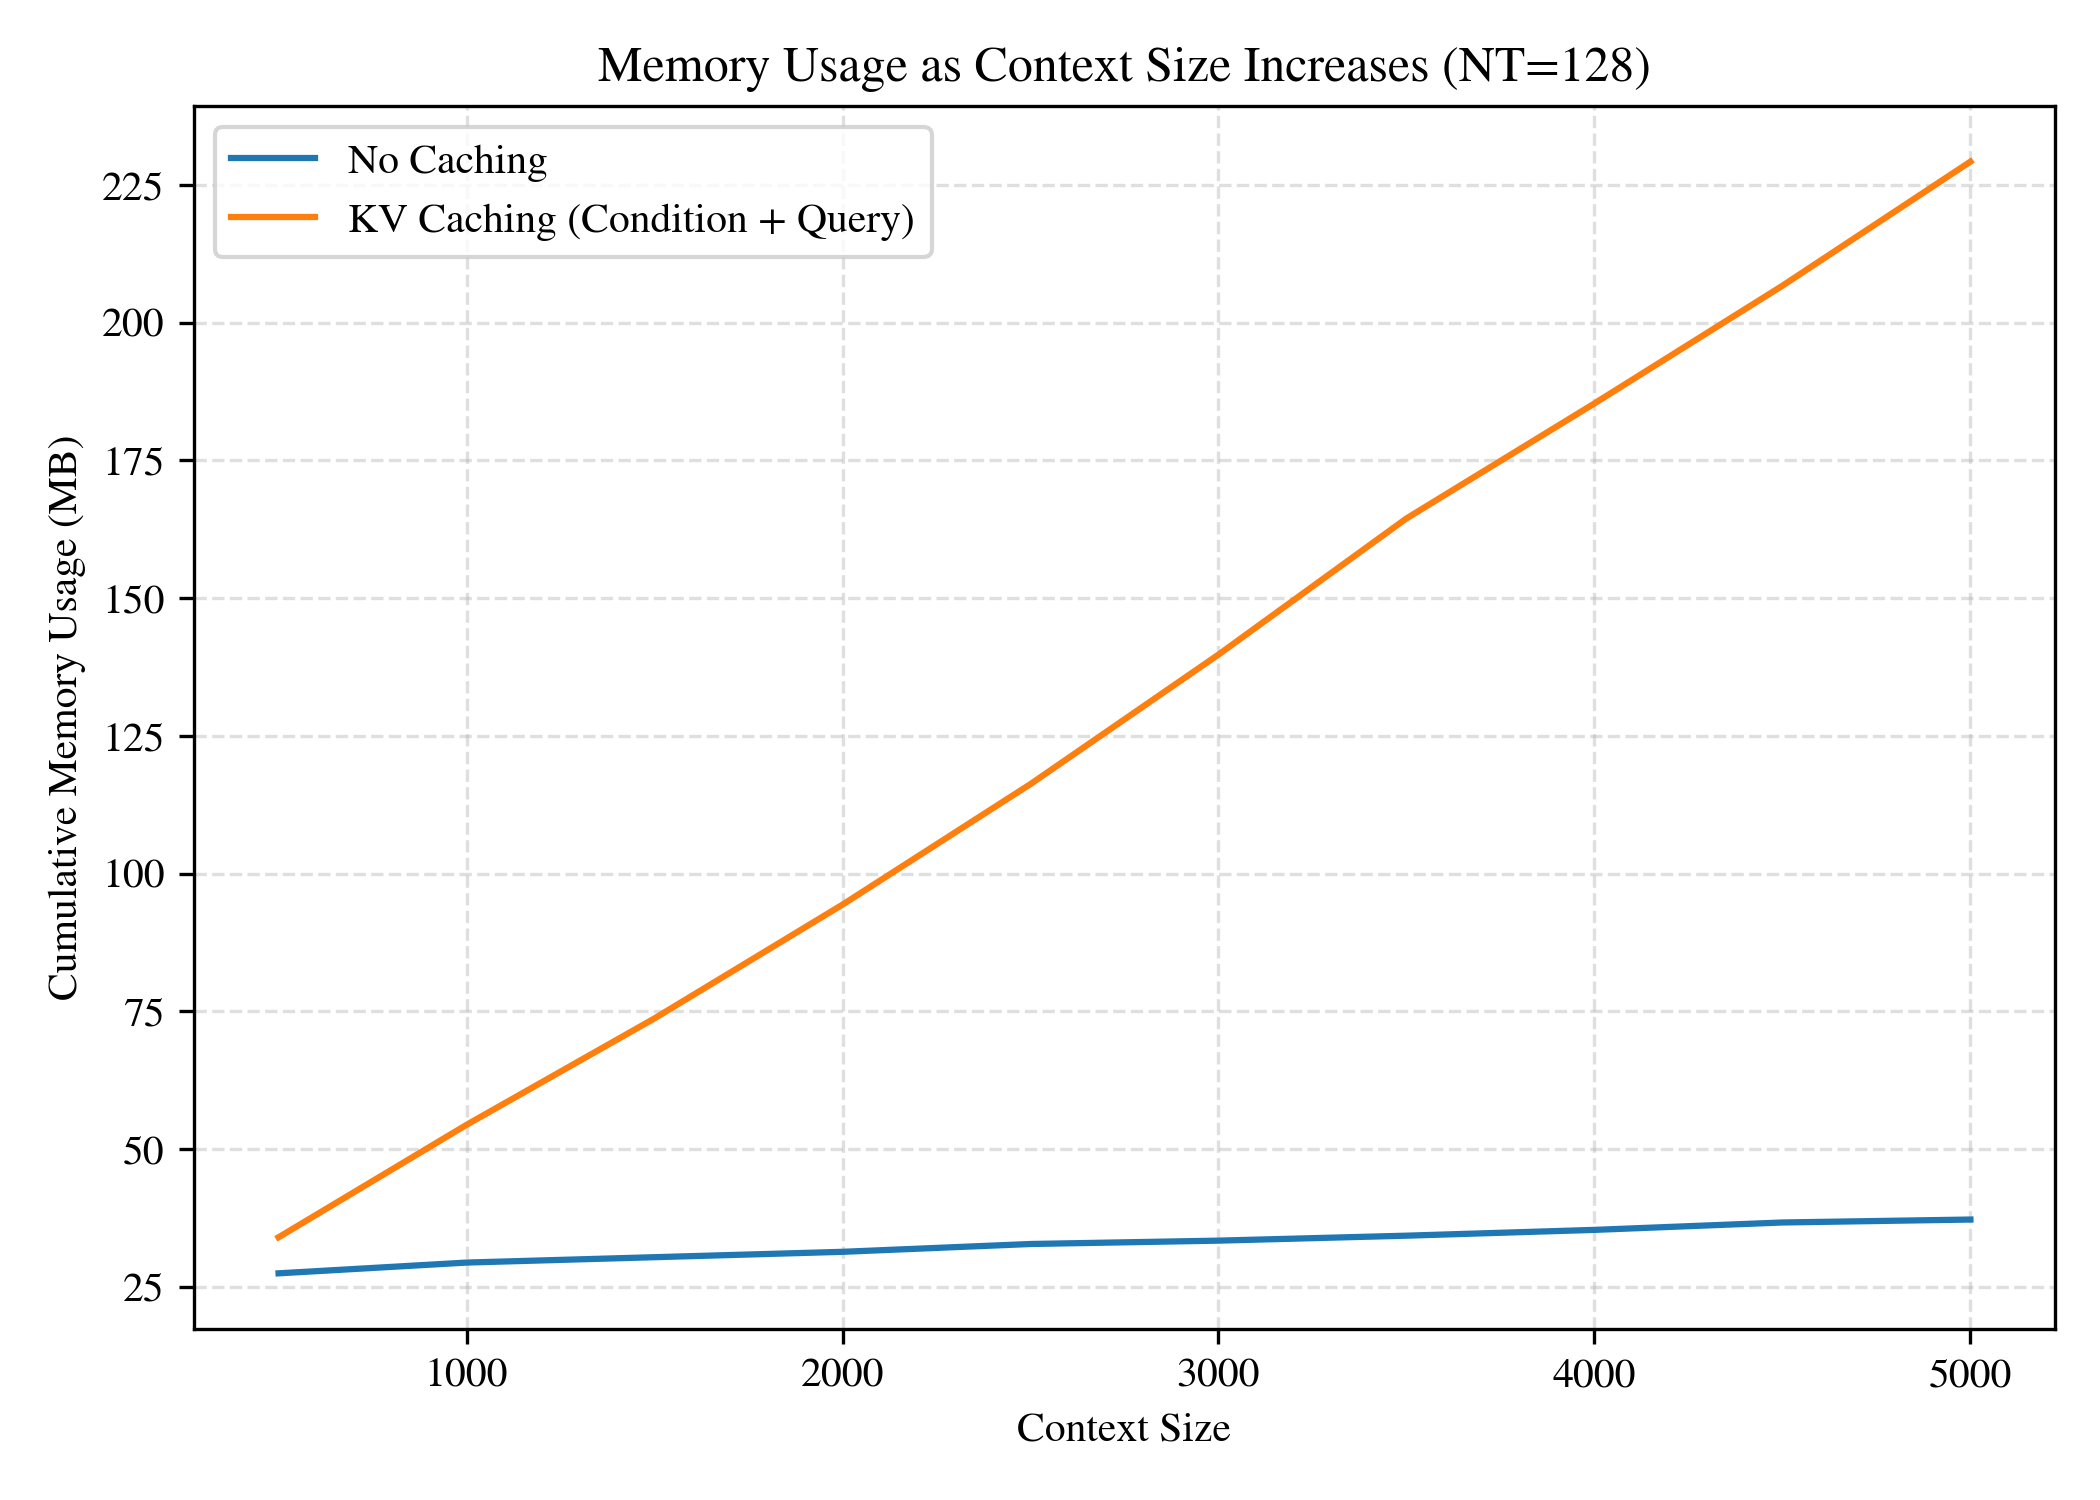
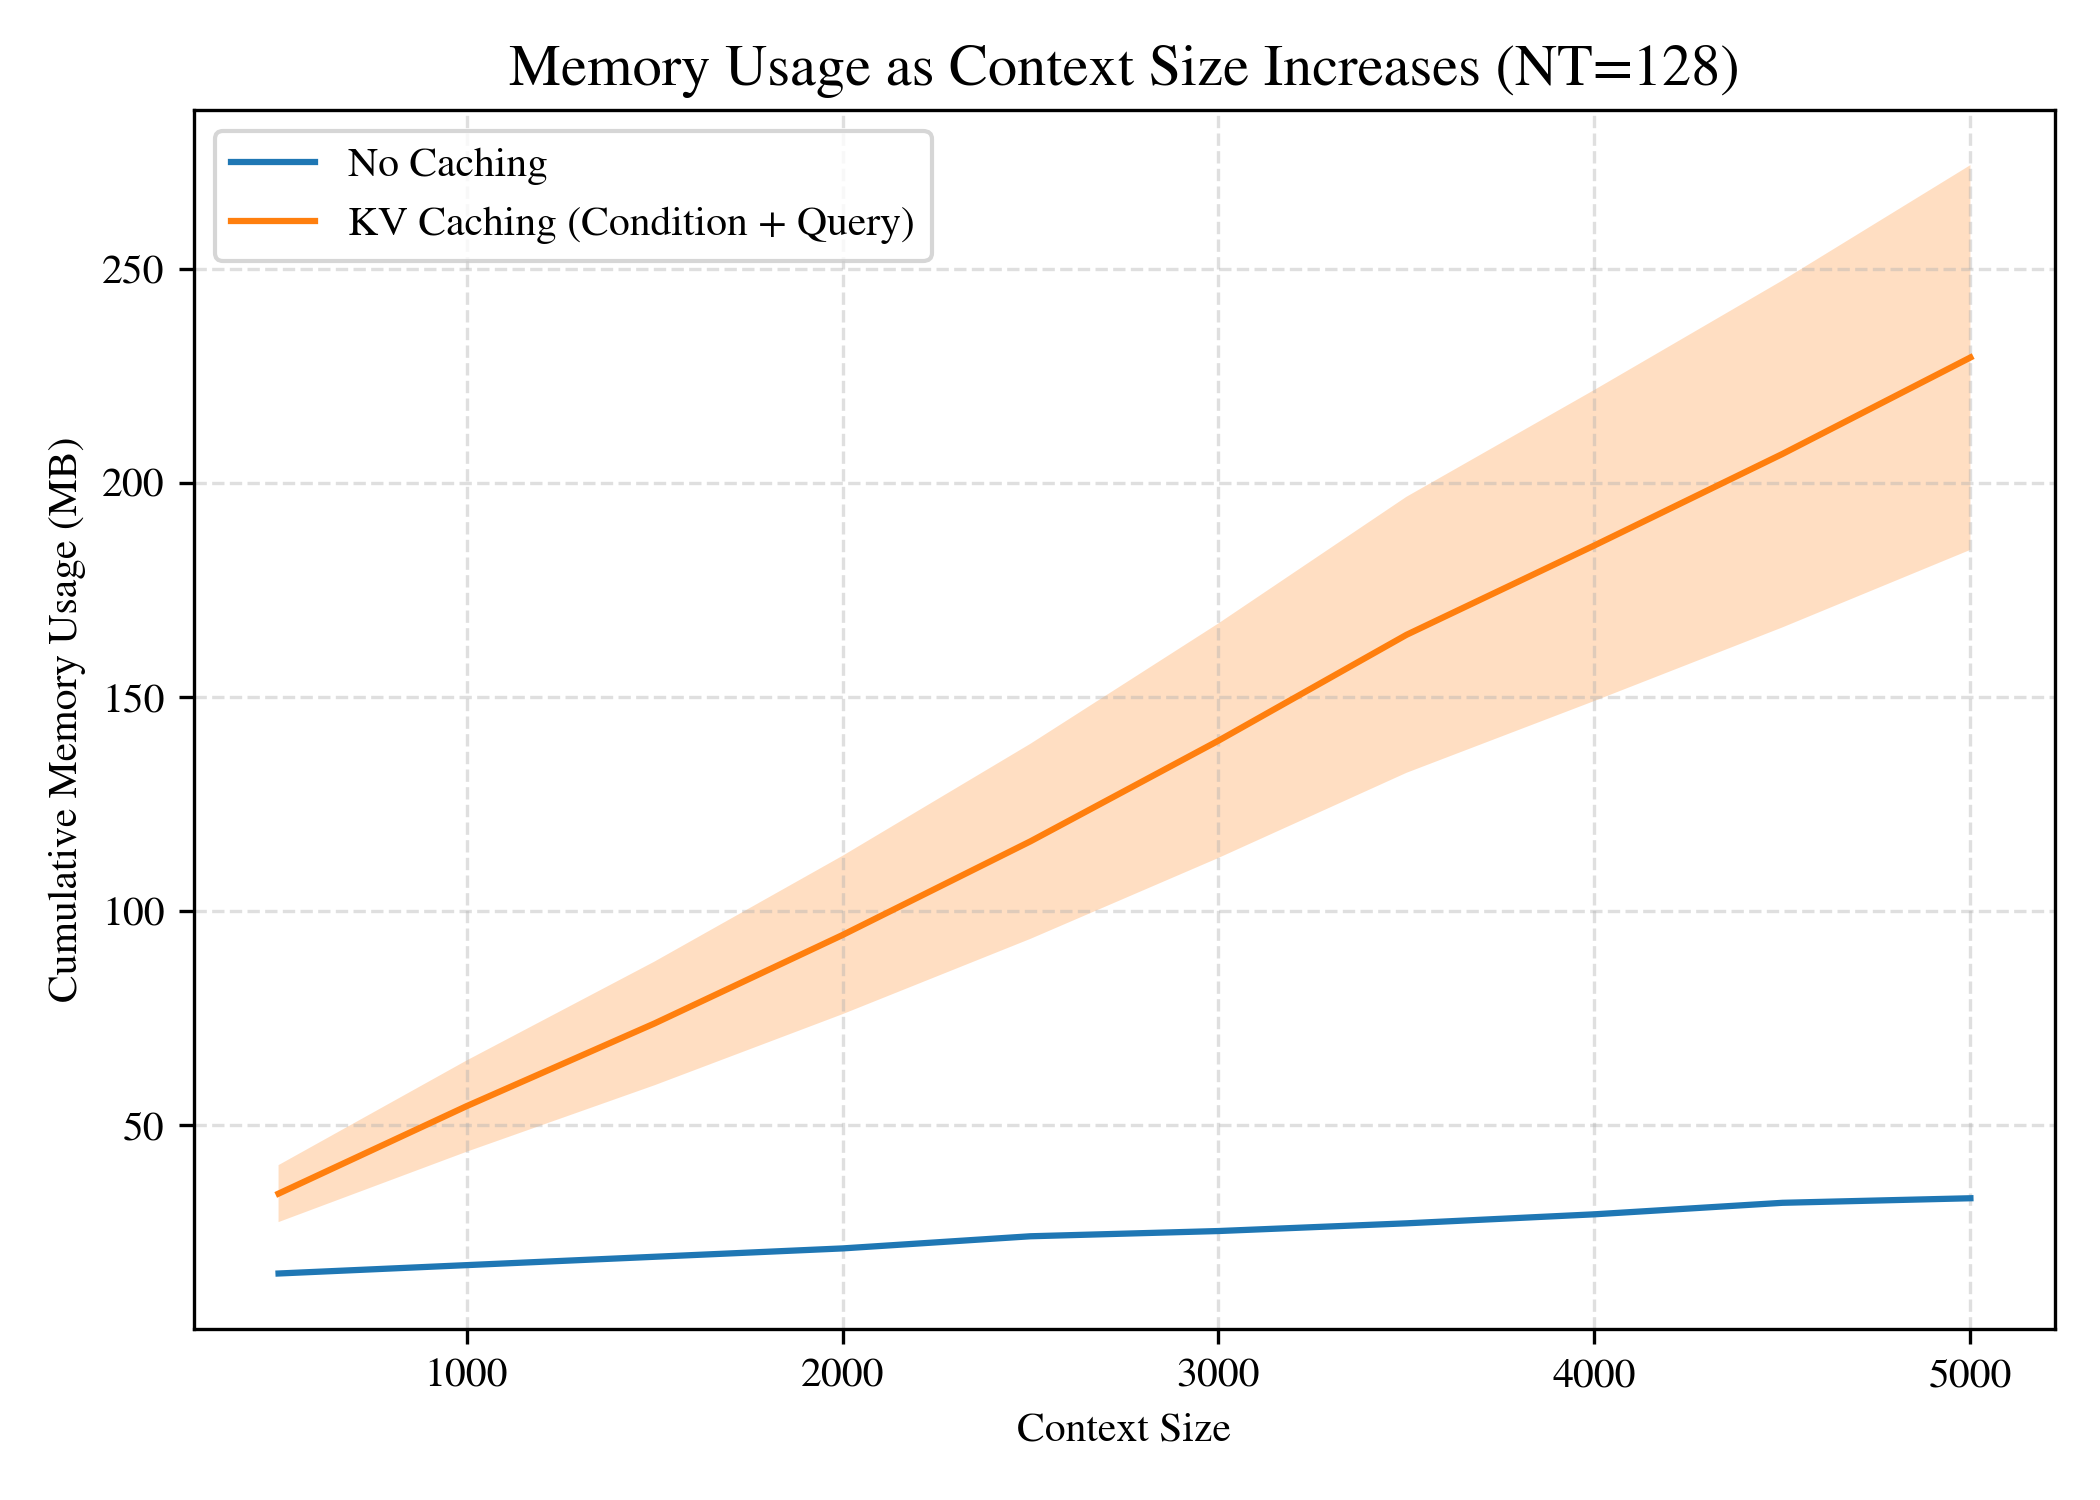
Plots

diff --git a/experiments/kv_cache_plots.py b/experiments/kv_cache_plots.py
@@ -10,6 +10,7 @@ import matplotlib
 
 matplotlib.rcParams["mathtext.fontset"] = "stix"
 matplotlib.rcParams["font.family"] = "STIXGeneral"
+matplotlib.rcParams["axes.titlesize"]= 14
 
 # Tests that KV caching works exactly the same as without
 @torch.no_grad
@@ -150,7 +151,7 @@ def compare_kv_against_none(strategy="fixed", targets=128):
     model.eval()
     # Dataset
     burn_in = 1 # Number of burn in runs to ignore
-    aggregate_over = 2 # Number of runs to aggregate data over
+    aggregate_over = 100 # Number of runs to aggregate data over
     token_step = 500 # How many increments of tokens to go up in
     max_nc, dx, dy, m = 5_000, 1, 1, 1
     nt = targets if strategy == "fixed" else max_nc
@@ -252,6 +253,8 @@ def compare_kv_against_none(strategy="fixed", targets=128):
             ctx_inc += 1
 
     # Aggregates results
+    memory_kv_std  = memory_kv.std(axis=0, ddof=1)
+    memory_no_kv_std  = memory_no_kv.std(axis=0, ddof=1)
     runtime_no_kv = np.mean(runtime_no_kv, axis=0)
     condition_kv = np.mean(condition_kv, axis=0)
     query_kv = np.mean(query_kv, axis=0)
@@ -294,7 +297,20 @@ def compare_kv_against_none(strategy="fixed", targets=128):
     memory_file_name = f'experiments/plot_results/kv/kv_without_memory_{strategy}_{targets}.png'
     fig, ax = plt.subplots(figsize=(7, 5))
     ax.plot(upper_ctxs, memory_no_kv, label='No Caching')
+    confidence_bars = True
+    if confidence_bars:
+        ci95 = 1.96 * memory_kv_std / np.sqrt(aggregate_over)
+        ax.fill_between(upper_ctxs,
+                        memory_no_kv - ci95,
+                        memory_no_kv + ci95,
+                        alpha=0.25,)
     ax.plot(upper_ctxs, memory_kv, label='KV Caching (Condition + Query)')
+    if confidence_bars:
+        ci95 = 1.96 * memory_kv / np.sqrt(aggregate_over)
+        ax.fill_between(upper_ctxs,
+                        memory_kv - ci95,
+                        memory_kv + ci95,
+                        alpha=0.25,)
     ax.set_xlabel('Context Size')
     ax.set_ylabel('Cumulative Memory Usage (MB)')
     ax.set_title(f'Memory Usage as Context Size Increases ({tit_text})')
@@ -310,8 +326,9 @@ def compare_kv_against_none(strategy="fixed", targets=128):
 
 if __name__ == "__main__":
     #test_kv_cache()
-    measure_condition_time_memory_kv()
+    #measure_condition_time_memory_kv()
     compare_kv_against_none(strategy="fixed", targets=128)
+    exit(0)
     compare_kv_against_none(strategy="scale")
     compare_kv_against_none(strategy="fixed", targets=512)
     compare_kv_against_none(strategy="fixed", targets=2048)
